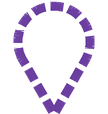
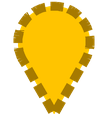
feat(mapa): pin amarillo y pildora "Prospecto" para prospectos (PCRM-49)
El pin del prospecto pasa de violeta hueco a amarillo relleno, y la tarjeta
de la lista suma una pildora "Prospecto" junto al badge "Extra".

El amarillo hueco -- la lectura literal del pedido -- se descarto tras
renderizarlo: sobre una calle blanca el cuerpo del pin desaparece y el
amarillo no llega a 1.5:1 contra el blanco, y las paradas caen justo sobre
calles. Con el cuerpo relleno el contraste lo aporta el cuerpo y los guiones
solo dibujan el borde.

El amarillo es vecino del ambar de Cobro, asi que el color solo no alcanza
para separarlos: lo que termina de hacerlo es el contorno punteado, que el
pin y la pildora comparten. Por eso la pildora va maciza y punteada en vez
de contorneada como las de tipo de parada -- en la tarjeta de un prospecto
agendado como Cobro las dos conviven.

De paso, dos duplicaciones que aparecieron al sumar el segundo consumidor:

- "esto es un prospecto" es ahora `isProspectStop`, una sola funcion con
  test, de la que cuelgan el pin y la pildora. Eran dos lugares que tienen
  que coincidir.
- `stop-pill.tsx` repetia por su cuenta el mapa ingles -> español para llegar
  al color. Sale a `STOP_TYPE_LABELS` (src/lib) y `StopTypeColorsByType`.

El boton general de la pantalla pasa a "Abrir ruta en maps": abre la ruta
completa, no la parada seleccionada, y el titulo anterior se confundia con
la pildora "Abrir en Maps" del pin.

Verificado en emulador: pin amarillo legible contra el de Cobro y pildora
[…]

diff --git a/src/constants/theme.ts b/src/constants/theme.ts
@@ -6,6 +6,8 @@ import '@/global.css';
 
 import { Platform } from 'react-native';
 
+import type { StopType } from '@/lib/daily-route';
+
 /**
  * Paleta de Farmacia Pragma. Los cuatro colores de marca salen de
  * assets/Logos/palette.png; los tres grises son derivados neutros que la
@@ -133,6 +135,21 @@ export const StopTypeColors = {
 } as const;
 
 /**
+ * El mismo objeto de arriba, indexado por `StopType` (ingles, como llega del
+ * backend) en vez de por el texto del pill.
+ *
+ * Existe para que ningun componente tenga que repetir el mapa
+ * ingles -> español para llegar al color: antes lo hacia `stop-pill.tsx` por
+ * su cuenta, y al aparecer el segundo consumidor (el chip de tipo del mapa)
+ * esa traduccion habria quedado duplicada.
+ */
+export const StopTypeColorsByType: Record<StopType, (typeof StopTypeColors)[keyof typeof StopTypeColors]> = {
+  visit: StopTypeColors.visita,
+  dispatch: StopTypeColors.despacho,
+  collection: StopTypeColors.cobro,
+};
+
+/**
  * El badge "Extra" (parada agregada fuera de la planificacion) no es un tipo
  * de parada mas, asi que no suma una cuarta entrada a `StopTypeColors`: solo
  * necesita el borde punteado sobre `textSecondary`. Se expone aca para que
@@ -144,20 +161,30 @@ export const StopTypeColors = {
 export const ExtraBadgeBorderColor = brand.textSecondary;
 
 /**
- * Violeta del pin de prospecto (PCRM-49).
+ * Colores del prospecto (PCRM-49): el pin del mapa y la pildora "Prospecto"
+ * que lo nombra, tanto en el mapa como en la tarjeta de la lista.
  *
- * Va suelto y no dentro de `StopTypeColors` a proposito: ese objeto esta
+ * Van sueltos y no dentro de `StopTypeColors` a proposito: ese objeto esta
  * indexado por tipo de parada, y un prospecto no es un tipo de parada sino un
  * destino que todavia no es cliente. Meterlo ahi romperia esa invariante y el
  * tipado de `StopType`.
  *
- * Queda fuera de la escala verde/azul/ambar para que se lea como otra
- * categoria, no como un cuarto tipo. El gris seria mas literal para "todavia
- * no es cliente", pero desaparece contra las calles del mapa.
+ * `fill` queda fuera de la escala verde/azul/ambar para que se lea como otra
+ * categoria, no como un cuarto tipo -- pero es vecino del ambar de Cobro en
+ * tono, asi que el color solo no alcanza para separarlos. Lo que termina de
+ * hacerlo es el contorno punteado, que ambos (pin y pildora) comparten.
  *
- * El pin no consume esta constante -- el color va horneado en el PNG, porque
- * `GoogleMapsMarker` no tiene prop de tinte (ver scripts/generate-map-pins.py).
- * Existe para que el dia que haya una leyenda o un badge de prospecto usen
- * este valor en vez de repetir el hex.
+ * `text` es el negro del tema y no `tintText`: el blanco sobre este amarillo
+ * da 1.6:1 y es ilegible.
+ *
+ * El pin del mapa no consume estas constantes -- ese color va horneado en el
+ * PNG, porque `GoogleMapsMarker` no tiene prop de tinte (ver
+ * scripts/generate-map-pins.py). Tienen que coincidir con
+ * `PIN_TYPES['pin-prospecto']` de ese script: si alguien cambia uno sin el
+ * otro, la pildora deja de corresponderse con el pin que esta nombrando.
  */
-export const ProspectPinColor = '#6B3FA0';
+export const ProspectColors = {
+  fill: '#FFC400',
+  border: '#A67A00',
+  text: brand.text,
+} as const;

diff --git a/src/components/stop-card.tsx b/src/components/stop-card.tsx
@@ -1,5 +1,6 @@
 import { Pressable, StyleSheet, View } from 'react-native';
 
+import { ProspectPill } from './prospect-pill';
 import { StopBadge } from './stop-badge';
 import { StopPill } from './stop-pill';
 import { ThemedText } from './themed-text';
@@ -9,6 +10,7 @@ import { useTheme } from '@/hooks/use-theme';
 import { formatDistance, haversineMeters, type Coordinates } from '@/lib/distance';
 import type { DailyRouteStop } from '@/lib/daily-route';
 import { formatStopTime } from '@/lib/format-time';
+import { isProspectStop } from '@/lib/stop-pin';
 
 type Props = {
   stop: DailyRouteStop;
@@ -56,6 +58,7 @@ function buildSubtitle(stop: DailyRouteStop, currentLocation: Coordinates | null
 export function StopCard({ stop, currentLocation, onPress }: Props) {
   const theme = useTheme();
   const isCompleted = stop.completed_at !== null;
+  const isProspect = isProspectStop(stop);
   const subtitle = buildSubtitle(stop, currentLocation);
 
   return (
@@ -79,9 +82,15 @@ export function StopCard({ stop, currentLocation, onPress }: Props) {
         <StopPill stopType={stop.stop_type} />
       </View>
 
-      {stop.is_extra && (
+      {/* "Prospecto" va primero porque responde antes: "Extra" matiza como
+          entro esta parada a la ruta, pero un prospecto es otra cosa -- un
+          destino que todavia no es cliente. En la practica casi siempre se
+          ven juntas (los prospectos llegan con `is_extra: true`), asi que la
+          condicion de la fila mira las dos y no asume esa correlacion. */}
+      {(isProspect || stop.is_extra) && (
         <View style={styles.badgeRow}>
-          <StopBadge />
+          {isProspect && <ProspectPill />}
+          {stop.is_extra && <StopBadge />}
         </View>
       )}
 
@@ -115,5 +124,7 @@ const styles = StyleSheet.create({
   },
   badgeRow: {
     flexDirection: 'row',
+    alignItems: 'center',
+    gap: Spacing.two,
   },
 });

diff --git a/src/components/prospect-pill.tsx b/src/components/prospect-pill.tsx
@@ -1,0 +1,44 @@
+import { StyleSheet, View } from 'react-native';
+
+import { ThemedText } from './themed-text';
+
+import { ProspectColors, Spacing } from '@/constants/theme';
+
+/**
+ * Pildora "Prospecto": el destino de esta parada todavia no es cliente
+ * (PCRM-49).
+ *
+ * Es un solo componente para los dos lugares donde aparece -- la tarjeta de
+ * la lista y el mapa, al seleccionar el pin -- justamente para que no puedan
+ * verse distintos: es la misma afirmacion sobre la misma parada.
+ *
+ * Va rellena y con el borde punteado, en vez de contorneada como `StopPill`,
+ * porque en la tarjeta las dos conviven: un prospecto agendado como Cobro
+ * muestra la pildora ambar de Cobro y esta al mismo tiempo, y los dos tonos
+ * son vecinos. Lo que las separa de un vistazo no es el color sino la forma:
+ * maciza contra contorneada, punteada contra continua -- el mismo punteado
+ * que lleva el pin del mapa.
+ */
+export function ProspectPill() {
+  return (
+    <View accessibilityRole="text" accessibilityLabel="Prospecto, todavía no es cliente" style={styles.pill}>
+      <ThemedText type="small" style={{ color: ProspectColors.text }}>
+        Prospecto
+      </ThemedText>
+    </View>
+  );
+}
+
+const styles = StyleSheet.create({
+  pill: {
+    alignSelf: 'flex-start',
+    flexShrink: 0,
+    backgroundColor: ProspectColors.fill,
+    borderWidth: 2,
+    borderStyle: 'dashed',
+    borderColor: ProspectColors.border,
+    borderRadius: Spacing.four,
+    paddingHorizontal: Spacing.two,
+    paddingVertical: Spacing.half,
+  },
+});

diff --git a/src/components/stop-pill.tsx b/src/components/stop-pill.tsx
@@ -2,32 +2,18 @@ import { StyleSheet, View } from 'react-native';
 
 import { ThemedText } from './themed-text';
 
-import { Spacing, StopTypeColors } from '@/constants/theme';
+import { Spacing, StopTypeColorsByType } from '@/constants/theme';
 import type { StopType } from '@/lib/daily-route';
+import { STOP_TYPE_LABELS } from '@/lib/stop-type';
 
 type Props = {
   stopType: StopType;
 };
 
-/**
- * Une la etiqueta en español y los colores de `StopTypeColors` en un solo
- * lugar: `StopType` llega del backend en inglés (CLAUDE.md 5.2 de la API),
- * pero las claves de `StopTypeColors` estan en español porque copian el
- * texto del pill. Sin este mapa habria que repetir la traduccion donde sea
- * que se necesite el color.
- */
-const STOP_TYPE_CONFIG: Record<
-  StopType,
-  { label: string; colors: (typeof StopTypeColors)[keyof typeof StopTypeColors] }
-> = {
-  visit: { label: 'Visita', colors: StopTypeColors.visita },
-  dispatch: { label: 'Despacho', colors: StopTypeColors.despacho },
-  collection: { label: 'Cobro', colors: StopTypeColors.cobro },
-};
-
 /** Pildora de tipo de parada (Visita / Despacho / Cobro) de la tarjeta de ruta. */
 export function StopPill({ stopType }: Props) {
-  const { label, colors } = STOP_TYPE_CONFIG[stopType];
+  const label = STOP_TYPE_LABELS[stopType];
+  const colors = StopTypeColorsByType[stopType];
 
   return (
     <View

diff --git a/src/lib/stop-pin.ts b/src/lib/stop-pin.ts
@@ -9,6 +9,19 @@ import type { StopType, TargetKind } from './daily-route';
 export type StopPinKind = StopType | 'prospect';
 
 /**
+ * Si el destino de la parada es un prospecto y no un cliente.
+ *
+ * Existe como funcion, y no como un `=== 'prospect'` suelto en cada
+ * componente, porque hoy son tres los lugares que tienen que coincidir: el
+ * pin del mapa, la pildora del mapa y la pildora de la tarjeta. Si uno dice
+ * que si y otro que no, el vendedor ve un pin de prospecto sin nombre o un
+ * nombre sin pin.
+ */
+export function isProspectStop(stop: { target_kind: TargetKind }): boolean {
+  return stop.target_kind === 'prospect';
+}
+
+/**
  * El destino gana sobre el tipo de parada.
  *
  * Un prospecto trae `stop_type` igual que cualquier otra parada (el admin lo
@@ -17,5 +30,5 @@ export type StopPinKind = StopType | 'prospect';
  * cliente -- que es exactamente lo que PCRM-49 viene a resolver.
  */
 export function stopPinKind(stop: { stop_type: StopType; target_kind: TargetKind }): StopPinKind {
-  return stop.target_kind === 'prospect' ? 'prospect' : stop.stop_type;
+  return isProspectStop(stop) ? 'prospect' : stop.stop_type;
 }

diff --git a/src/lib/stop-pin.test.ts b/src/lib/stop-pin.test.ts
@@ -1,7 +1,7 @@
 import assert from 'node:assert/strict';
 import { test } from 'node:test';
 
-import { stopPinKind } from './stop-pin.ts';
+import { isProspectStop, stopPinKind } from './stop-pin.ts';
 
 test('un cliente usa el pin de su tipo de parada', () => {
   assert.equal(stopPinKind({ target_kind: 'customer', stop_type: 'visit' }), 'visit');
@@ -16,4 +16,12 @@ test('un prospecto usa el pin de prospecto sin importar su tipo de parada', () =
   assert.equal(stopPinKind({ target_kind: 'prospect', stop_type: 'visit' }), 'prospect');
   assert.equal(stopPinKind({ target_kind: 'prospect', stop_type: 'dispatch' }), 'prospect');
   assert.equal(stopPinKind({ target_kind: 'prospect', stop_type: 'collection' }), 'prospect');
+});
+
+test('isProspectStop distingue el destino, no el tipo de parada', () => {
+  // Es el predicado del que cuelgan las tres lecturas que el vendedor ve
+  // (pin del mapa, pildora del mapa, pildora de la tarjeta), asi que se
+  // prueba solo y no solo a traves de `stopPinKind`.
+  assert.equal(isProspectStop({ target_kind: 'prospect' }), true);
+  assert.equal(isProspectStop({ target_kind: 'customer' }), false);
 });

diff --git a/src/lib/stop-type.ts b/src/lib/stop-type.ts
@@ -1,0 +1,17 @@
+import type { StopType } from './daily-route';
+
+/**
+ * Etiqueta en español de cada tipo de parada.
+ *
+ * `StopType` llega del backend en inglés (CLAUDE.md 5.2 de la API) y la
+ * interfaz es toda en español, asi que la traduccion tiene que existir en
+ * algun lado. Vive aca, suelta y sin imports de React Native, y no dentro del
+ * componente de la pildora, porque el color se resuelve con la misma clave:
+ * `StopTypeColorsByType` en `theme.ts` indexa por `StopType` justamente para
+ * que nadie tenga que repetir el mapa ingles -> español.
+ */
+export const STOP_TYPE_LABELS: Record<StopType, string> = {
+  visit: 'Visita',
+  dispatch: 'Despacho',
+  collection: 'Cobro',
+};

diff --git a/src/components/route-map.tsx b/src/components/route-map.tsx
@@ -258,7 +258,7 @@ export const RouteMap = forwardRef<RouteMapHandle, Props>(function RouteMap(
 
       {selectedStop && isCenteredOnSelected && (
         // Solo abre esta parada, no la ruta del dia: para eso esta el boton
-        // "Abrir en Google Maps" de la pantalla.
+        // "Abrir ruta en maps" de la pantalla.
         <View pointerEvents="box-none" style={styles.pillAnchor}>
           <Pressable
             onPress={() => void Linking.openURL(buildGoogleMapsStopLink(selectedStop.location))}

diff --git a/src/components/ui/button.tsx b/src/components/ui/button.tsx
@@ -26,7 +26,7 @@ export function Button({
   // Un boton que ya esta trabajando no debe aceptar un segundo toque.
   const isDisabled = disabled || loading;
 
-  // El outline (boton "Abrir en Google Maps" sobre el mapa) necesita
+  // El outline (boton "Abrir ruta en maps" sobre el mapa) necesita
   // contraste propio incluso sobre un fondo variable como el del mapa: fondo
   // solido de la app + borde del color de marca, en vez de transparente.
   const backgroundColor = isPrimary

diff --git a/src/app/(protected)/index.tsx b/src/app/(protected)/index.tsx
@@ -93,7 +93,7 @@ export default function HomeScreen() {
                 </View>
               )}
               <Button
-                title="Abrir en Google Maps ↗"
+                title="Abrir ruta en maps ↗"
                 variant="outline"
                 onPress={() => void Linking.openURL(googleMapsLink.url)}
               />

diff --git a/scripts/generate-map-pins.py b/scripts/generate-map-pins.py
@@ -65,10 +65,17 @@ PIN_TYPES = {
     'pin-cobro': {'fill': '#D98C00', 'border': '#8A5800', 'style': 'solid'},
     # PCRM-49. Un prospecto no es un tipo de parada mas: es un destino que
     # todavia no es cliente, y el vendedor tiene que poder distinguirlo de un
-    # vistazo. Por eso sale de la escala verde/azul/ambar (violeta) y va hueco
-    # con el contorno punteado, el mismo lenguaje que el badge "Extra" de la
-    # tarjeta usa para "esto no es parte de lo planificado".
-    'pin-prospecto': {'fill': '#FFFFFF', 'border': '#6B3FA0', 'style': 'dashed'},
+    # vistazo. Lo que lo marca son dos cosas: el amarillo, fuera de la escala
+    # verde/azul/ambar, y el contorno punteado -- el mismo lenguaje que el
+    # badge "Extra" de la tarjeta usa para "esto no es parte de lo planificado".
+    #
+    # El cuerpo va relleno y no hueco: probado sobre fondo de mapa, un pin de
+    # relleno blanco con guiones amarillos se deshace justo encima de una
+    # calle (blanco sobre blanco, y el amarillo no llega a 1.5:1 contra el
+    # blanco), que es precisamente donde caen las paradas. Con el relleno
+    # amarillo el contraste lo aporta el cuerpo y los guiones solo dibujan el
+    # borde.
+    'pin-prospecto': {'fill': '#FFC400', 'border': '#A67A00', 'style': 'dashed'},
 }
 
 # Largo de cada guion y del hueco entre guiones, en puntos @1x, medidos sobre
